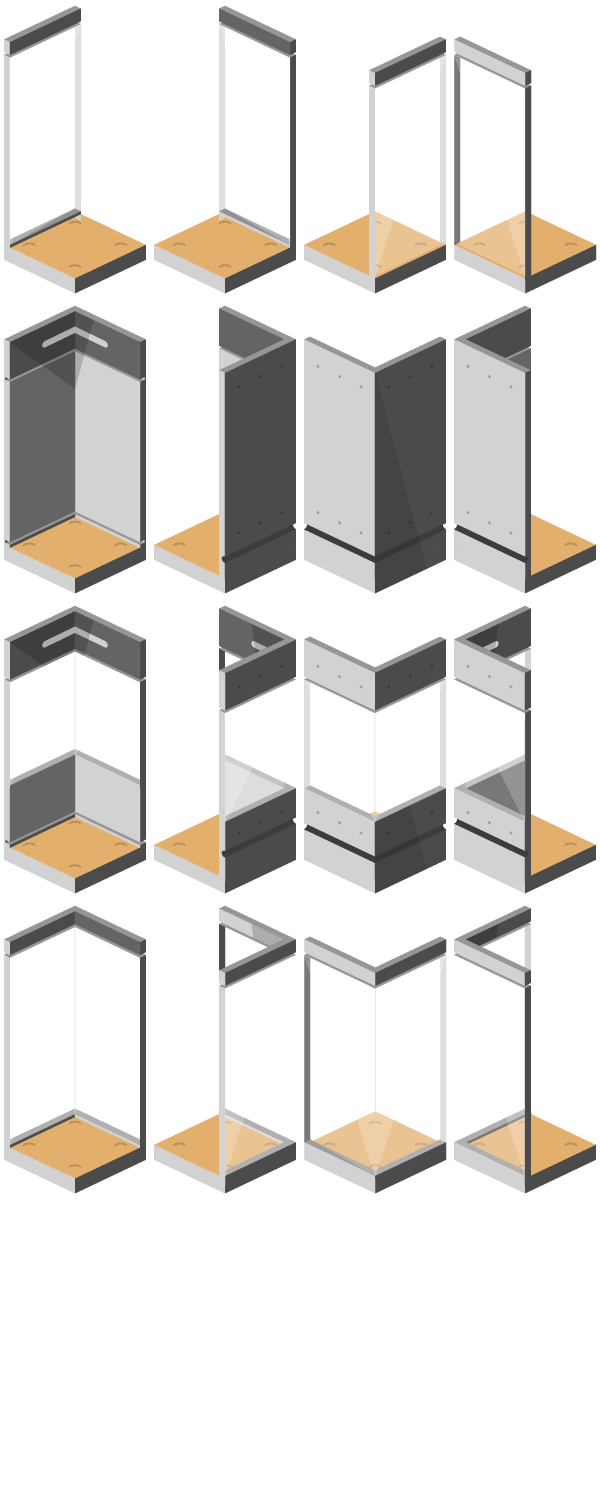
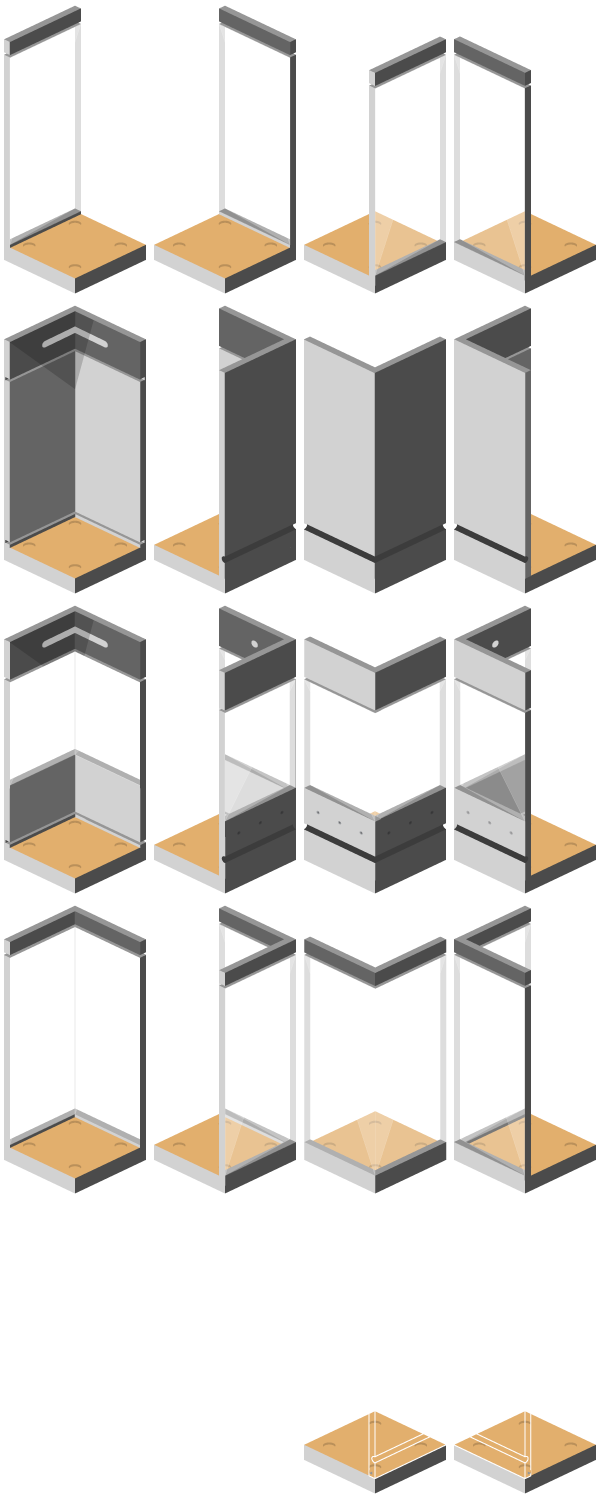
yellow textures updated
the yellow textures have now outlined walls when the player is above
them

diff --git a/js/levels_new.js b/js/levels_new.js
@@ -56,18 +56,18 @@ floor_1[0]=[,,,,,,,,,,,,,,,,,,,];
 floor_1[1]=[,,,,,,,,,,,,,,,,,,,];
 floor_1[2]=[,,,,,,,,,,,,,,,,,,,];
 floor_1[3]=[,,,,,,,,,,,,,,,,,,,];
-floor_1[4]=[,,,,25,18,18,62,66,70,74,78,25,18,18,26,,,,];
-floor_1[5]=[,,,,21,2,2,102,106,110,114,118,13,2,2,23,,,,];
-floor_1[6]=[,,,,21,2,2,146,14,14,14,14,9,2,2,23,,,,];
-floor_1[7]=[,,,,21,2,2,2,2,2,2,2,2,2,2,23,,,,];
-floor_1[8]=[,,,,21,2,2,2,2,2,2,2,2,2,2,23,,,,];
-floor_1[9]=[,,,,21,2,2,2,2,2,2,2,2,2,2,23,,,,];
-floor_1[10]=[,,,,129,2,2,149,151,2,2,149,151,2,2,23,,,,];
-floor_1[11]=[,,,,133,2,2,149,151,2,2,149,151,2,2,23,,,,];
-floor_1[12]=[,,,,137,2,2,149,151,2,2,149,151,2,2,23,,,,];
-floor_1[13]=[,,,,121,2,2,2,2,2,2,2,2,2,2,23,,,,];
-floor_1[14]=[,,,,141,2,2,2,2,2,2,2,2,2,2,23,,,,];
-floor_1[15]=[,,,,28,24,24,24,24,48,44,24,24,24,24,27,,,,];
+floor_1[4]=[,,,,29,18,18,18,26,118,114,110,106,102,18,30,,,,];
+floor_1[5]=[,,,,17,2,2,2,10,14,14,14,14,14,2,19,,,,];
+floor_1[6]=[,,,,17,2,2,2,2,2,2,2,2,2,2,19,,,,];
+floor_1[7]=[,,,,17,2,2,169,171,2,2,2,2,2,2,19,,,,];
+floor_1[8]=[,,,,17,2,2,169,171,2,2,2,2,2,2,19,,,,];
+floor_1[9]=[,,,,17,2,2,169,171,2,2,2,2,2,2,19,,,,];
+floor_1[10]=[,,,,17,2,2,2,2,2,2,2,2,2,2,19,,,,];
+floor_1[11]=[,,,,17,2,2,176,2,2,2,2,2,2,2,19,,,,];
+floor_1[12]=[,,,,17,2,2,2,2,2,2,2,2,2,2,19,,,,];
+floor_1[13]=[,,,,17,2,2,2,2,2,2,2,2,2,2,19,,,,];
+floor_1[14]=[,,,,17,2,2,2,2,2,2,2,2,2,2,19,,,,];
+floor_1[15]=[,,,,32,20,20,20,20,20,20,20,20,20,20,31,,,,];
 floor_1[16]=[,,,,,,,,,,,,,,,,,,,];
 floor_1[17]=[,,,,,,,,,,,,,,,,,,,];
 floor_1[18]=[,,,,,,,,,,,,,,,,,,,];

diff --git a/js/player_move.js b/js/player_move.js
@@ -22,7 +22,7 @@ function showNPC(pos,floor){
 	$('#selec'+floor+'_'+pos.y+'_'+pos.x).css('display','none');
 };
 
-var 	posA={y:17,x:17},
+var 	posA={y:5,x:5},
 	posB={y:"",x:""};
 var 	npcA={y:7, x:12};
 
@@ -125,18 +125,13 @@ function processToMove(route,floor){
 		mik={y: parseInt(mt.position().top),x: parseInt(mt.position().left)},
 		px="px",
 		dep=parseInt(mt.css('z-index'));
-	//console.log(getDepths(route,floor));
-	//console.log($('#tile'+floor+"_"+posA.y+"_"+posA.x).css('z-index'));
-	//console.log(route.length);
-	//console.log(getDepths(route,floor));
-	//$('#jugador01').css({'z-index':dep+1});
+
 	var lal=getDepths(route,floor);
 	$('#jugador01').css({'z-index': lal[ptm]});	
 	
 	$('#jugador01').animate({
 		top: mik.y+px,
 		left: mik.x+px,
-
 		scrollTop: $('#jugador01').offset().top-200,
 		scrollLeft: $('#jugador01').offset().left-400
 	},animPlayTime);

diff --git a/js/level_generator.js b/js/level_generator.js
@@ -301,7 +301,7 @@ function startPlayer(f,pos,color){
 	showPlayer(pos,f);
 	clickTile(f);
 };
-var	current_floor=0,
+var	current_floor=1,
 	current_dir="ori";
 
 $(document).ready(function(){
@@ -319,7 +319,7 @@ $(document).ready(function(){
 	}
 	startFloor(current_floor,current_dir);
 	rotateFloorButton(current_floor);
-	startPlayer(2,posA,getColor(eval('floor_'+2)[posA.y][posA.x]));
+	startPlayer(current_floor,posA,getColor(eval('floor_'+2)[posA.y][posA.x]));
 });
 
 function rotateFloorButton(f){
